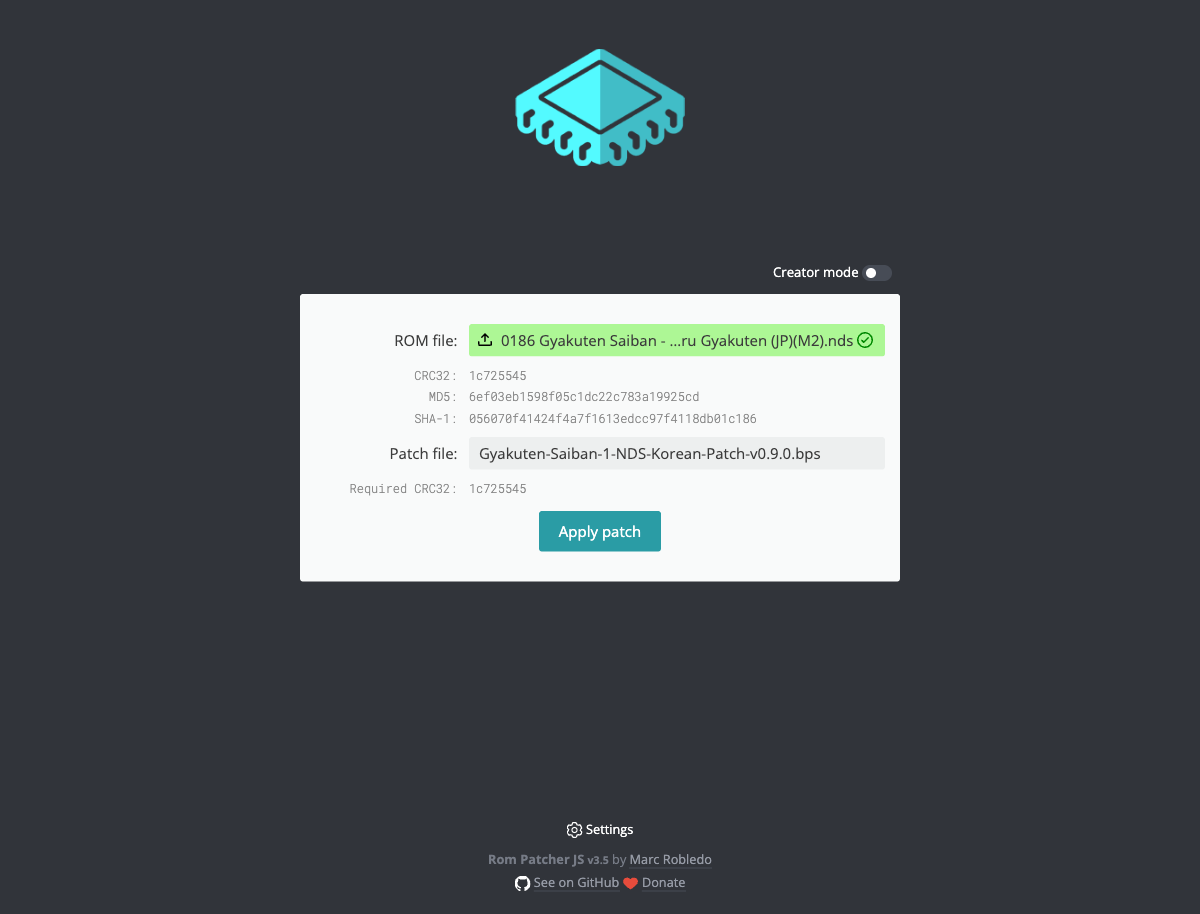
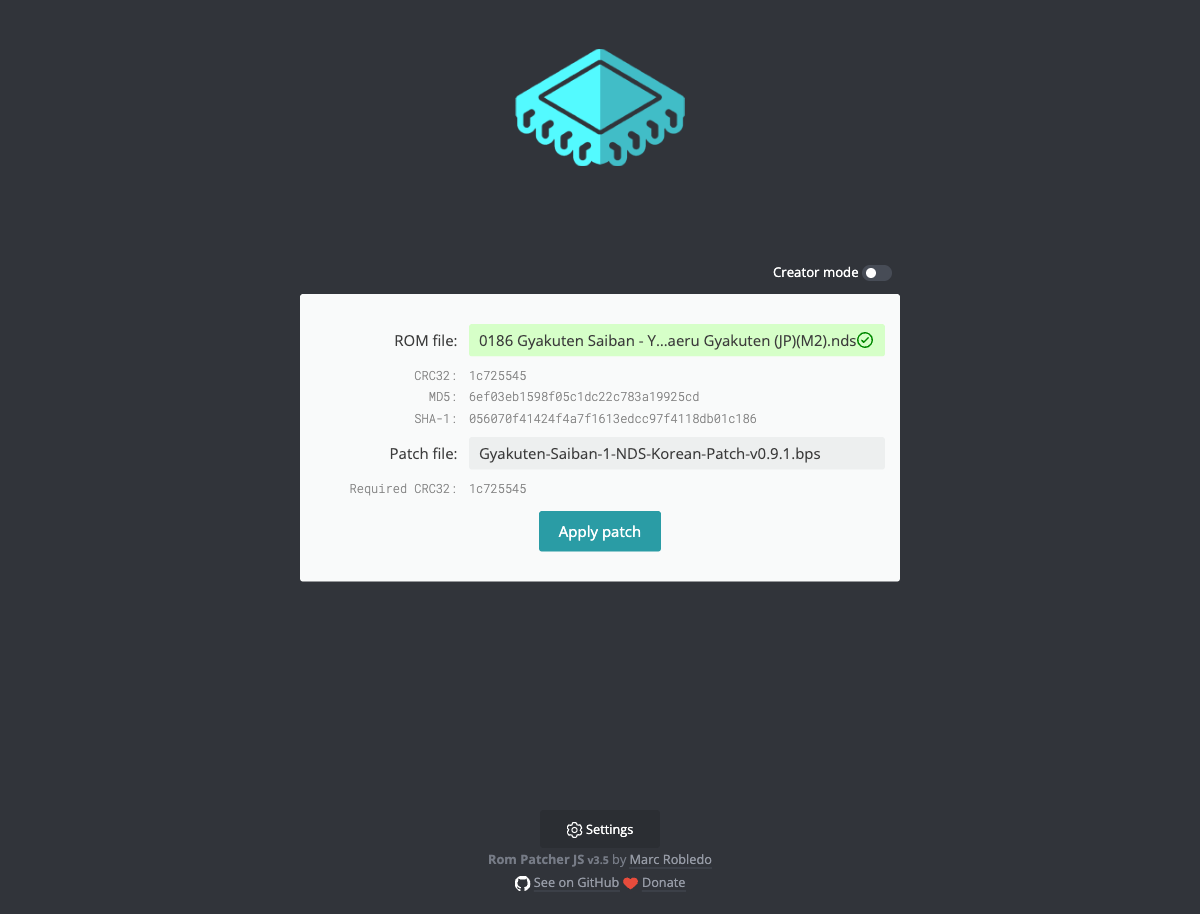
0.9.1 설명 대사 줄바꿈 수정판 배포

Changed region(s): [[0.37, 0.337, 0.74, 0.3982]]

diff --git a/docs/APPLY.md b/docs/APPLY.md
@@ -1,11 +1,11 @@
 # 패치 적용 방법 — 처음 하는 분을 위한 안내
 
-이 패치는 일본어 게임 파일을 한국어판으로 바꾸는 파일입니다. 패치 파일만으로 게임을 실행할 수는 없으며, 본인이 보유한 일본판 원본 `.nds`가 필요합니다.
+이 패치는 일본어 게임 파일을 한국어판으로 바꾸는 파일입니다. 패치 파일만으로 게임을 실행할 수는 없으며, 본인이 보유한 일본판 원본 `.nds`가 필요합니다. 0.9.0 이용자도 기존 한글 ROM 대신 <strong>일본판 원본에 0.9.1을 적용</strong>합니다.
 
 ## 1. 준비물
 
 - Nintendo DS 일본판 《역전재판 소생하는 역전》의 원본 `.nds`
-- [0.9.0 패치 ZIP](https://github.com/lf-idonotknow/Gyakuten-Saiban-1-NDS-Korean-Patch/releases/download/v0.9.0/Gyakuten-Saiban-1-NDS-Korean-Patch-v0.9.0.zip)
+- [0.9.1 패치 ZIP](https://github.com/lf-idonotknow/Gyakuten-Saiban-1-NDS-Korean-Patch/releases/download/v0.9.1/Gyakuten-Saiban-1-NDS-Korean-Patch-v0.9.1.zip)
 - 컴퓨터의 Chrome, Edge, Safari 등 웹 브라우저
 
 지원 원본은 <strong>일본판 / 게임 코드 AGYJ / 리비전 0 / 67,108,864바이트</strong>입니다.
@@ -20,9 +20,9 @@
 
 ## 2. 받은 ZIP의 압축 풀기
 
-1. 위의 <strong>0.9.0 패치 ZIP</strong> 링크를 누릅니다. 릴리스 화면에서 받는다면 <strong>Assets</strong>의 `Gyakuten-Saiban-1-NDS-Korean-Patch-v0.9.0.zip`을 선택합니다. `Source code (zip)`은 받지 않습니다.
+1. 위의 <strong>0.9.1 패치 ZIP</strong> 링크를 누릅니다. 릴리스 화면에서 받는다면 <strong>Assets</strong>의 `Gyakuten-Saiban-1-NDS-Korean-Patch-v0.9.1.zip`을 선택합니다. `Source code (zip)`은 받지 않습니다.
 2. Windows에서는 받은 ZIP을 마우스 오른쪽 버튼으로 누르고 <strong>모두 압축 풀기</strong>를 선택합니다. macOS에서는 ZIP을 두 번 클릭합니다.
-3. 압축을 푼 폴더에서 <strong>`Gyakuten-Saiban-1-NDS-Korean-Patch-v0.9.0.bps`</strong>가 있는지 확인합니다. 다음 단계에서 선택할 파일은 ZIP이 아니라 이 <strong>`.bps`</strong>입니다.
+3. 압축을 푼 폴더에서 <strong>`Gyakuten-Saiban-1-NDS-Korean-Patch-v0.9.1.bps`</strong>가 있는지 확인합니다. 다음 단계에서 선택할 파일은 ZIP이 아니라 이 <strong>`.bps`</strong>입니다.
 4. 원본 `.nds`와 기존 세이브는 별도로 보관합니다. 작업하기 편하도록 원본 복사본과 `.bps`를 같은 폴더에 두어도 됩니다.
 
 ## 3. 패치 적용하기
@@ -32,13 +32,13 @@
 3. 본인이 보유한 <strong>일본판 원본 `.nds`</strong>를 선택합니다. `.bps`나 ZIP을 넣는 칸이 아닙니다.
 4. 계산이 끝나면 <strong>CRC32가 `1C725545`</strong>, <strong>SHA-1이 `056070f41424f4a7f1613edcc97f4118db01c186`</strong>인지 확인합니다. 값이 다르면 원본 판본을 확인해 주세요.
 5. <strong>Patch file:</strong> 옆의 파일 선택 버튼을 누릅니다.
-6. ZIP에서 꺼낸 <strong>`Gyakuten-Saiban-1-NDS-Korean-Patch-v0.9.0.bps`</strong>를 선택합니다.
+6. ZIP에서 꺼낸 <strong>`Gyakuten-Saiban-1-NDS-Korean-Patch-v0.9.1.bps`</strong>를 선택합니다.
 7. 화면의 <strong>Required CRC32</strong>도 `1C725545`이고 <strong>Apply patch</strong> 버튼을 누를 수 있는지 확인합니다. <strong>Settings → Fix ROM checksum</strong>은 꺼 둡니다. 처음 접속했을 때는 기본값으로 꺼져 있습니다.
 8. <strong>Apply patch</strong>를 누르고 완료될 때까지 기다립니다. 새 `.nds` 파일이 다운로드되며, 저장 위치를 묻는다면 원하는 폴더를 선택합니다.
 
-원본과 0.9.0 패치를 모두 선택한 실제 화면입니다. 위쪽 CRC32와 아래쪽 Required CRC32가 같습니다. 원본 파일명은 달라도 확인값이 같으면 됩니다.
+원본과 0.9.1 패치를 모두 선택한 실제 화면입니다. 위쪽 CRC32와 아래쪽 Required CRC32가 같습니다. 원본 파일명은 달라도 확인값이 같으면 됩니다.
 
-![일본판 원본과 0.9.0 BPS를 선택한 화면](images/patcher-ready.png)
+![일본판 원본과 0.9.1 BPS를 선택한 화면](images/patcher-ready.png)
 
 ## 4. 결과 파일 확인하기
 
@@ -48,9 +48,9 @@
 
 | 패치 적용 후 확인 항목 | 값 |
 |---|---|
-| CRC32 | `CFCD95B5` |
-| SHA-1 | `29720db4ef843933cd009e3dde8a58c742114c43` |
[1 lines of base64/hex data omitted]
+| CRC32 | `A5523F95` |
+| SHA-1 | `b107e22e5dea329c23b9c7f7efd8e588f9dd3e76` |
[1 lines of base64/hex data omitted]
 
 SHA-256까지 확인하려면 Windows PowerShell에서 `Get-FileHash -Algorithm SHA256 -LiteralPath "확인할 파일.nds"`를 사용하거나, macOS 터미널에서 `shasum -a 256 `을 입력한 뒤 파일을 끌어 넣고 Return 키를 누르면 됩니다. `확인할 파일.nds`는 실제 검사할 파일명으로 바꿉니다.
 

diff --git a/README.md b/README.md
@@ -1,8 +1,12 @@
-# 역전재판 소생하는 역전 한국어 패치 0.9.0
+# 역전재판 소생하는 역전 한국어 패치 0.9.1
 
-《역전재판 소생하는 역전》 <strong>Nintendo DS 일본판</strong>의 비공식 한국어 패치입니다. <strong>0.9.0은 첫 공개판</strong>입니다.
+《역전재판 소생하는 역전》 <strong>Nintendo DS 일본판</strong>의 비공식 한국어 패치입니다. 0.9.1은 초반 설명 대사의 표시 오류를 수정한 버전입니다.
 
-<strong>[0.9.0 패치 ZIP 다운로드](https://github.com/lf-idonotknow/Gyakuten-Saiban-1-NDS-Korean-Patch/releases/download/v0.9.0/Gyakuten-Saiban-1-NDS-Korean-Patch-v0.9.0.zip)</strong> · <strong>[처음 하는 분을 위한 적용 안내](docs/APPLY.md)</strong> · <strong>[오류·번역 제보](https://github.com/lf-idonotknow/Gyakuten-Saiban-1-NDS-Korean-Patch/issues/new/choose)</strong>
+<strong>[0.9.1 패치 ZIP 다운로드](https://github.com/lf-idonotknow/Gyakuten-Saiban-1-NDS-Korean-Patch/releases/download/v0.9.1/Gyakuten-Saiban-1-NDS-Korean-Patch-v0.9.1.zip)</strong> · <strong>[처음 하는 분을 위한 적용 안내](docs/APPLY.md)</strong> · <strong>[오류·번역 제보](https://github.com/lf-idonotknow/Gyakuten-Saiban-1-NDS-Korean-Patch/issues/new/choose)</strong>
+
+## 0.9.1 수정 내용
+
+- 초반 얏파리 설명 대사의 줄바꿈 오류와 화면 하단 잘림을 수정했습니다.
 
 ## 한글화 내용
 
@@ -21,18 +25,20 @@
 |---|---|---|
 | 파일 형식 | `.nds` | `.nds` |
 | 크기 | 67,108,864바이트 (64MiB) | 134,217,728바이트 (128MiB) |
-| CRC32 | `1C725545` | `CFCD95B5` |
-| SHA-1 | `056070f41424f4a7f1613edcc97f4118db01c186` | `29720db4ef843933cd009e3dde8a58c742114c43` |
[1 lines of base64/hex data omitted]
+| CRC32 | `1C725545` | `A5523F95` |
+| SHA-1 | `056070f41424f4a7f1613edcc97f4118db01c186` | `b107e22e5dea329c23b9c7f7efd8e588f9dd3e76` |
[1 lines of base64/hex data omitted]
 
 확인값(해시)은 파일의 내용을 식별하는 값입니다. 파일 이름이 달라도 확인값이 같으면 같은 원본입니다.
 
 ## 간단한 적용 순서
 
-1. <strong>[0.9.0 패치 ZIP](https://github.com/lf-idonotknow/Gyakuten-Saiban-1-NDS-Korean-Patch/releases/download/v0.9.0/Gyakuten-Saiban-1-NDS-Korean-Patch-v0.9.0.zip)</strong>을 받고 압축을 풉니다.
+0.9.0 이용자도 <strong>일본판 원본 ROM에 0.9.1 패치를 적용</strong>합니다. 기존 한글 ROM에 덧씌우는 패치가 아닙니다.
+
+1. <strong>[0.9.1 패치 ZIP](https://github.com/lf-idonotknow/Gyakuten-Saiban-1-NDS-Korean-Patch/releases/download/v0.9.1/Gyakuten-Saiban-1-NDS-Korean-Patch-v0.9.1.zip)</strong>을 받고 압축을 풉니다.
 2. [Rom Patcher JS](https://www.marcrobledo.com/RomPatcher.js/)를 엽니다. 프로그램 설치 없이 컴퓨터의 웹 브라우저에서 적용할 수 있습니다.
 3. <strong>ROM file:</strong>에 일본판 원본 `.nds`를 선택합니다. CRC32가 <strong>`1C725545`</strong>인지 확인합니다.
-4. <strong>Patch file:</strong>에 압축을 푼 `Gyakuten-Saiban-1-NDS-Korean-Patch-v0.9.0.bps`를 선택합니다.
+4. <strong>Patch file:</strong>에 압축을 푼 `Gyakuten-Saiban-1-NDS-Korean-Patch-v0.9.1.bps`를 선택합니다.
 5. <strong>Apply patch</strong>를 누르고 새 `.nds` 파일을 저장합니다. <strong>Settings → Fix ROM checksum</strong>은 꺼 둡니다.
 6. 새 `.nds`를 melonDS에서 열거나 플래시카드의 게임 폴더에 복사해 닌텐도 DS에서 실행합니다.
 
@@ -40,7 +46,7 @@
 
 ## 구동 확인
 
-<strong>에뮬레이터 melonDS와 닌텐도 DS 실기에서 구동을 확인했습니다.</strong> 실기는 보유한 기기 3개·플래시카드 3개·microSD 카드 3개에서 확인했습니다. 자세한 [검증 정보와 세이브 안내](docs/VERIFICATION.md)를 참고하세요.
+0.9.1은 <strong>melonDS에서 부팅과 제1화의 수정 장면 및 앞뒤 대사 진행</strong>을 확인했습니다. 닌텐도 DS 실기 구동은 0.9.0에서 보유 기기·플래시카드·microSD 카드 각각 3개로 확인했으며, <strong>0.9.1의 실기 재확인은 아직 하지 않았습니다.</strong> 자세한 [검증 정보와 세이브 안내](docs/VERIFICATION.md)를 참고하세요.
 
 기존 세이브는 먼저 백업해 주세요. 세이브의 파일명과 저장 위치는 사용 중인 플래시카드·에뮬레이터의 규칙을 따릅니다.
 

diff --git a/docs/VERIFICATION.md b/docs/VERIFICATION.md
@@ -1,30 +1,36 @@
-# 0.9.0 검증 정보와 세이브 안내
+# 0.9.1 검증 정보와 세이브 안내
 
 ## 구동 확인
 
-<strong>에뮬레이터 melonDS와 닌텐도 DS 실기에서 구동을 확인했습니다.</strong>
+- <strong>0.9.1 / melonDS:</strong> 배포 BPS를 일본판 원본에 적용한 ROM을 처음부터 실행하여, 제1화의 얏파리 설명 두 줄과 앞뒤 대사가 정상적으로 표시되고 진행되는 것을 확인했습니다.
+- <strong>0.9.0 / 닌텐도 DS 실기:</strong> 2026년 11월 16일, 제작자가 보유한 기기 3개·플래시카드 3개·microSD 카드 3개에서 구동 성공을 확인했습니다. 27개 조합을 모두 시험했다는 의미는 아닙니다.
+- <strong>0.9.1의 닌텐도 DS 실기 재확인은 아직 하지 않았습니다.</strong>
 
-- <strong>melonDS:</strong> 배포 BPS를 일본판 원본에 적용해 만든 ROM으로 제1화 첫 대화 진입, 법정 기록 열기·닫기, 다음 대사 진행을 확인했습니다.
-- <strong>닌텐도 DS 실기:</strong> 2026년 11월 16일, 제작자가 보유한 기기 3개·플래시카드 3개·microSD 카드 3개에서 구동 성공을 확인했습니다.
+위 실행 구간의 확인은 전편의 모든 분기를 다시 플레이한 결과와 구분합니다.
 
-위 실기 확인은 보유 환경의 구동 결과이며 27개 조합을 모두 시험했다는 의미는 아닙니다. 이 문서에서 확인한 실행 구간과 전편의 모든 분기 검수는 구분합니다.
+## 0.9.1 수정 확인
+
+초반 얏파리 설명 대사가 둘째 줄에서 시작하여 마지막 줄이 화면 아래에서 잘리던 문제를 수정했습니다. 대사의 내용은 유지했습니다.
+
+전체 29,866개 대사의 실제 제어명령을 검사하여, 같은 글자 위치에서 페이지 넘김 뒤에 줄바꿈이 중복 실행되는 사례가 수정 전 1곳에서 수정 후 0곳으로 줄어든 것을 확인했습니다. 수정 장면 앞뒤의 화면은 기존과 동일하며, 글꼴과 그래픽도 유지했습니다.
 
 ## 배포 패치 무결성
 
 - 지원 원본: Nintendo DS 일본판, 게임 코드 `AGYJ`, 리비전 `0`
 - 원본 크기: `67,108,864`바이트
 - 결과 크기: `134,217,728`바이트
-- 원본과 패치 적용 결과의 확인값: [README](../README.md#준비물과-적용-대상), [manifest.json](../manifest.json)
-- Floating IPS로 생성한 BPS를 다시 적용해 기존 검수·구동 확인본과 <strong>전체 바이트 및 SHA-256 일치</strong>를 확인했습니다.
-- 안내에 사용하는 <strong>Rom Patcher JS</strong>의 브라우저 화면에서도 원본과 BPS를 선택해 적용하고, 내려받은 ROM의 전체 바이트 및 SHA-256 일치를 확인했습니다.
+- 원본과 결과의 확인값: [README](../README.md#준비물과-적용-대상), [manifest.json](../manifest.json)
+- 0.9.1은 전체 한글화를 포함한 독립 패치입니다. 0.9.0 이용자도 <strong>일본판 원본에 적용</strong>합니다.
+- Floating IPS로 BPS를 다시 적용하여 검증한 수정 ROM과 <strong>전체 바이트 및 SHA-256 일치</strong>를 확인했습니다.
+- 안내에 사용하는 <strong>Rom Patcher JS</strong>에서도 원본과 BPS를 선택하여 적용하고, 내려받은 ROM의 전체 바이트 및 SHA-256 일치를 확인했습니다.
 - 같은 크기라도 내용이 다른 원본은 체크섬 오류로 적용이 거부되는 것을 확인했습니다.
-- 배포 ZIP의 모든 내부 파일과 확인값을 검사했습니다.
+- ZIP 내부 파일과 확인값을 검사하고, ZIP에 포함된 BPS로도 동일한 ROM이 만들어지는 것을 확인했습니다.
 
 ## 세이브 안내
 
 기존 세이브는 먼저 별도로 백업해 주세요. ROM과 세이브의 기본 파일명, 확장자, 저장 폴더는 사용 중인 플래시카드·에뮬레이터의 규칙을 따릅니다.
 
-일부 기존 게임 내 세이브의 불러오기와 대사 진행을 로컬에서 확인했습니다. 서로 다른 패치판과 실행 환경 사이의 세이브 호환성 전체를 확인한 결과는 아닙니다. 다른 환경의 세이브는 확장자만 바꾸어 사용하기보다 해당 환경이 안내하는 변환 방법을 따라 주세요.
+0.9.0에서 일부 기존 게임 내 세이브의 불러오기와 진행을 확인했습니다. 서로 다른 패치 버전과 실행 환경 사이의 세이브 호환성 전체를 확인한 결과는 아닙니다. 다른 환경의 세이브는 확장자만 바꾸기보다 해당 환경이 안내하는 변환 방법을 따라 주세요.
 
 ## 제보
 
